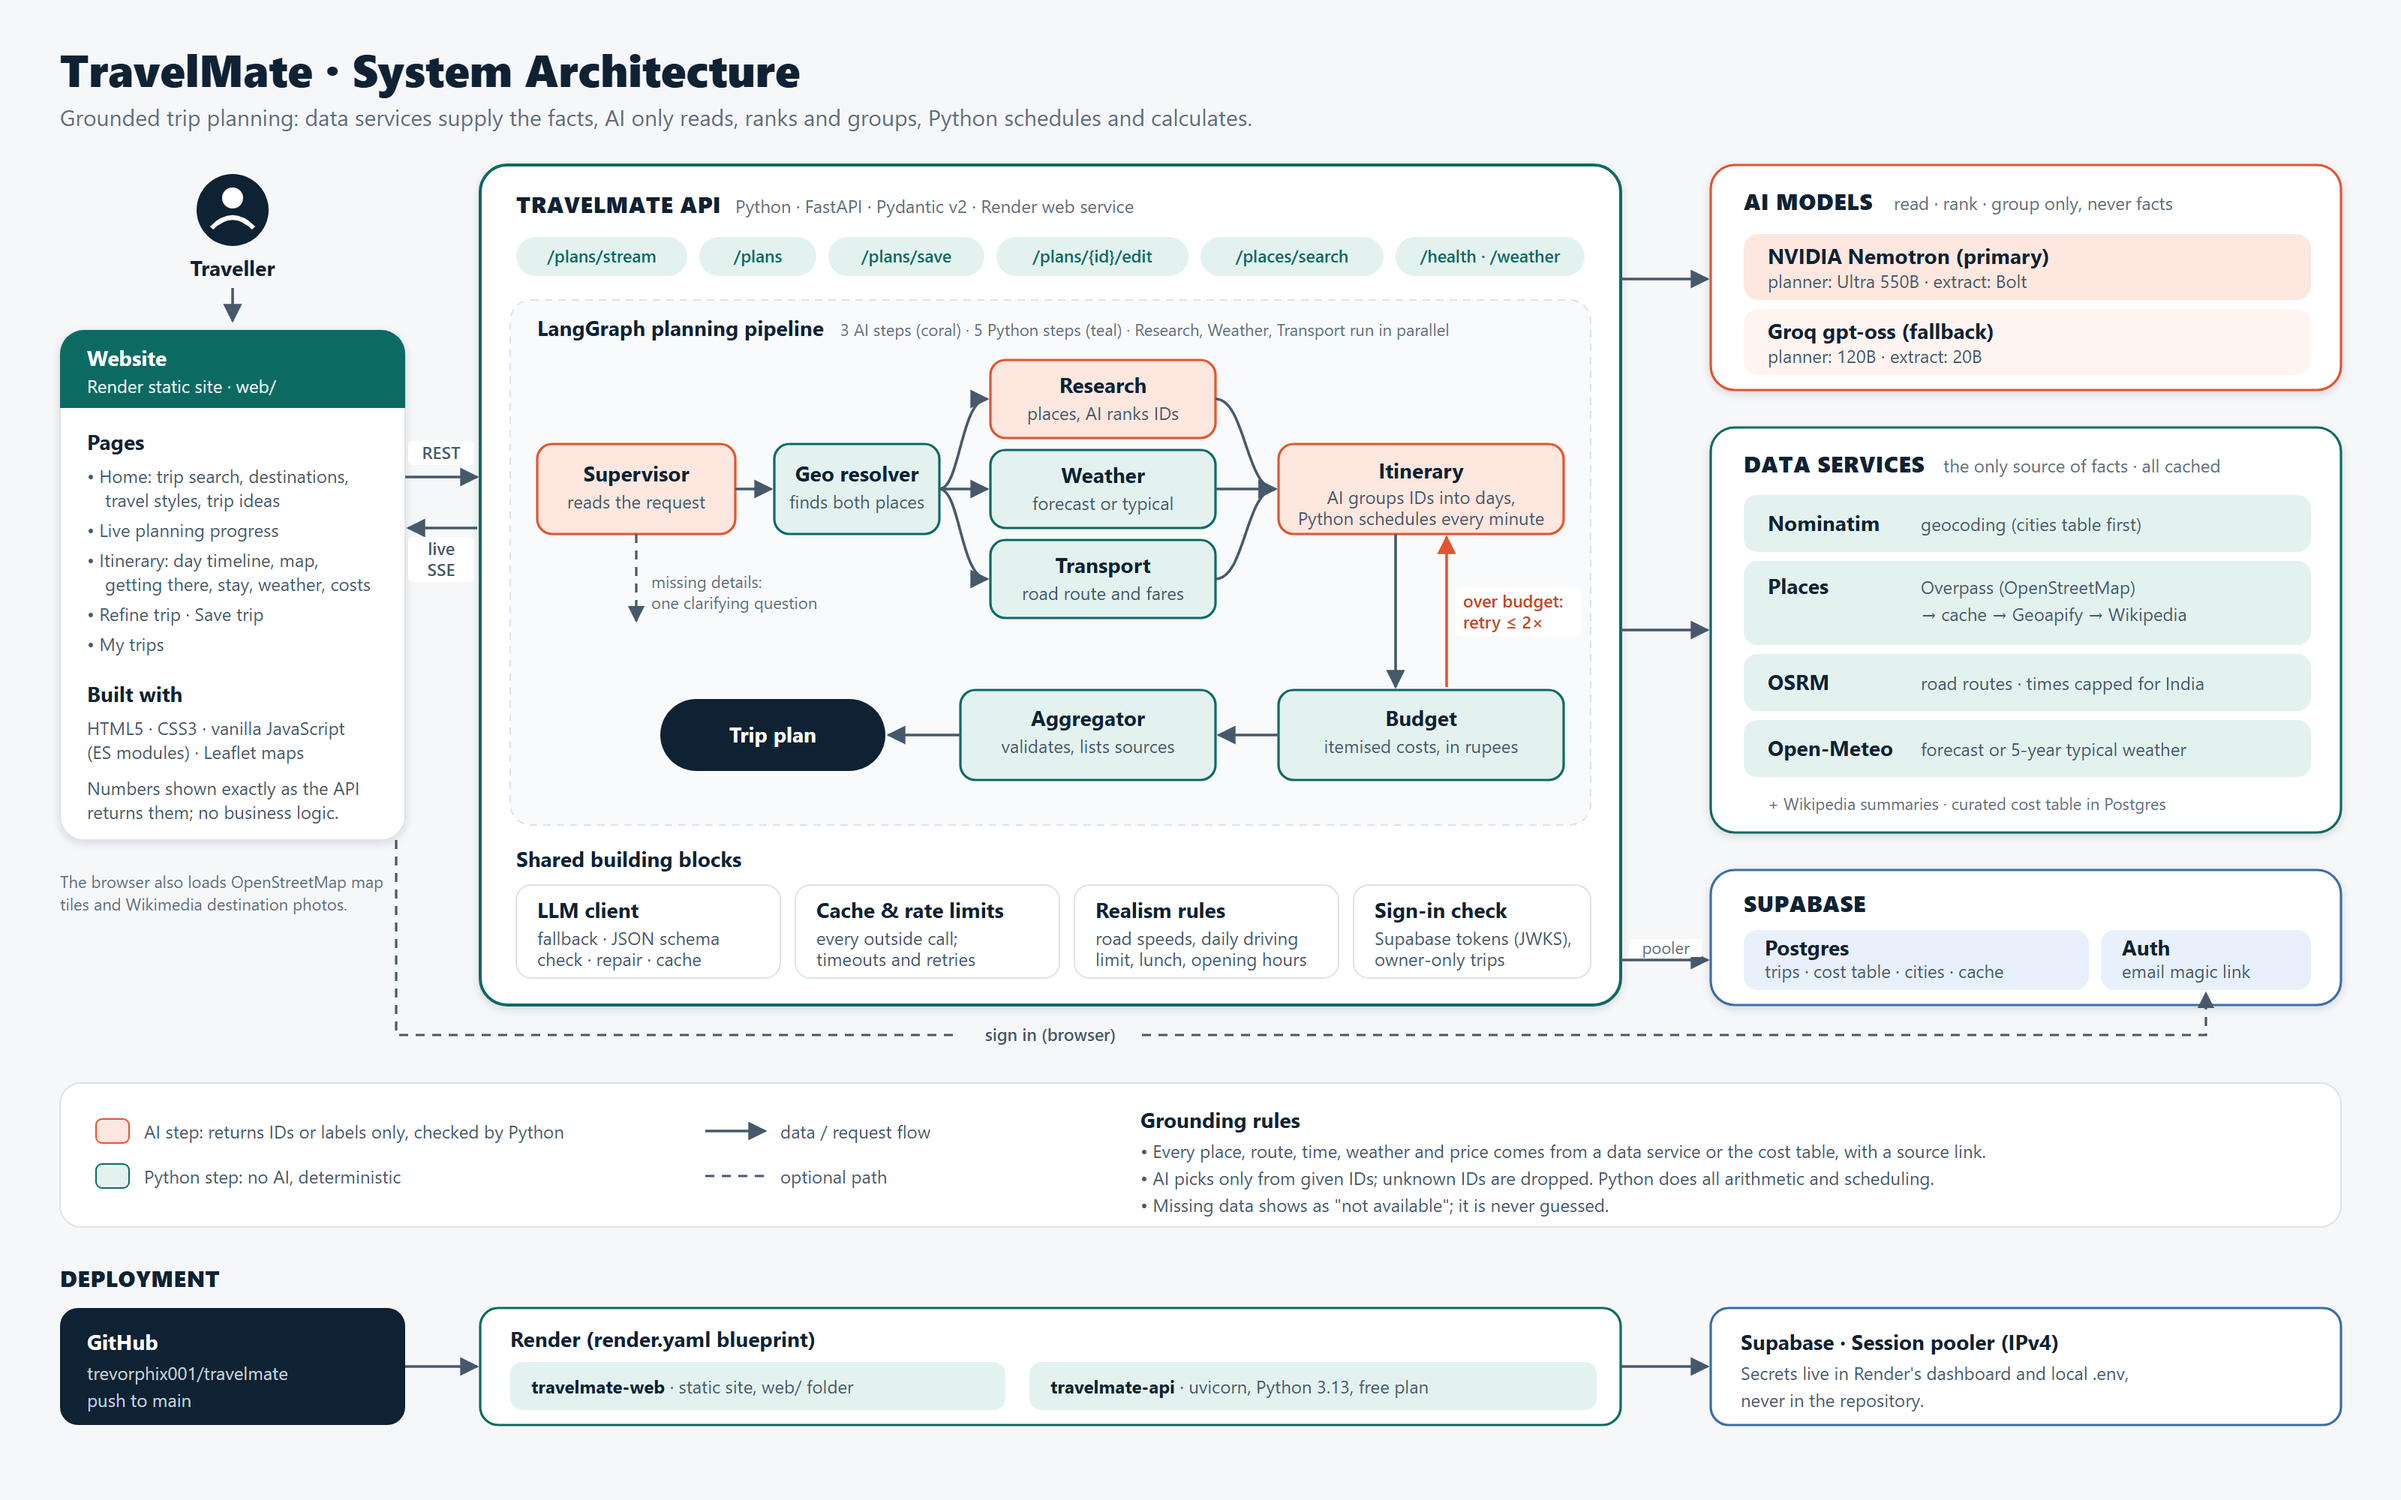
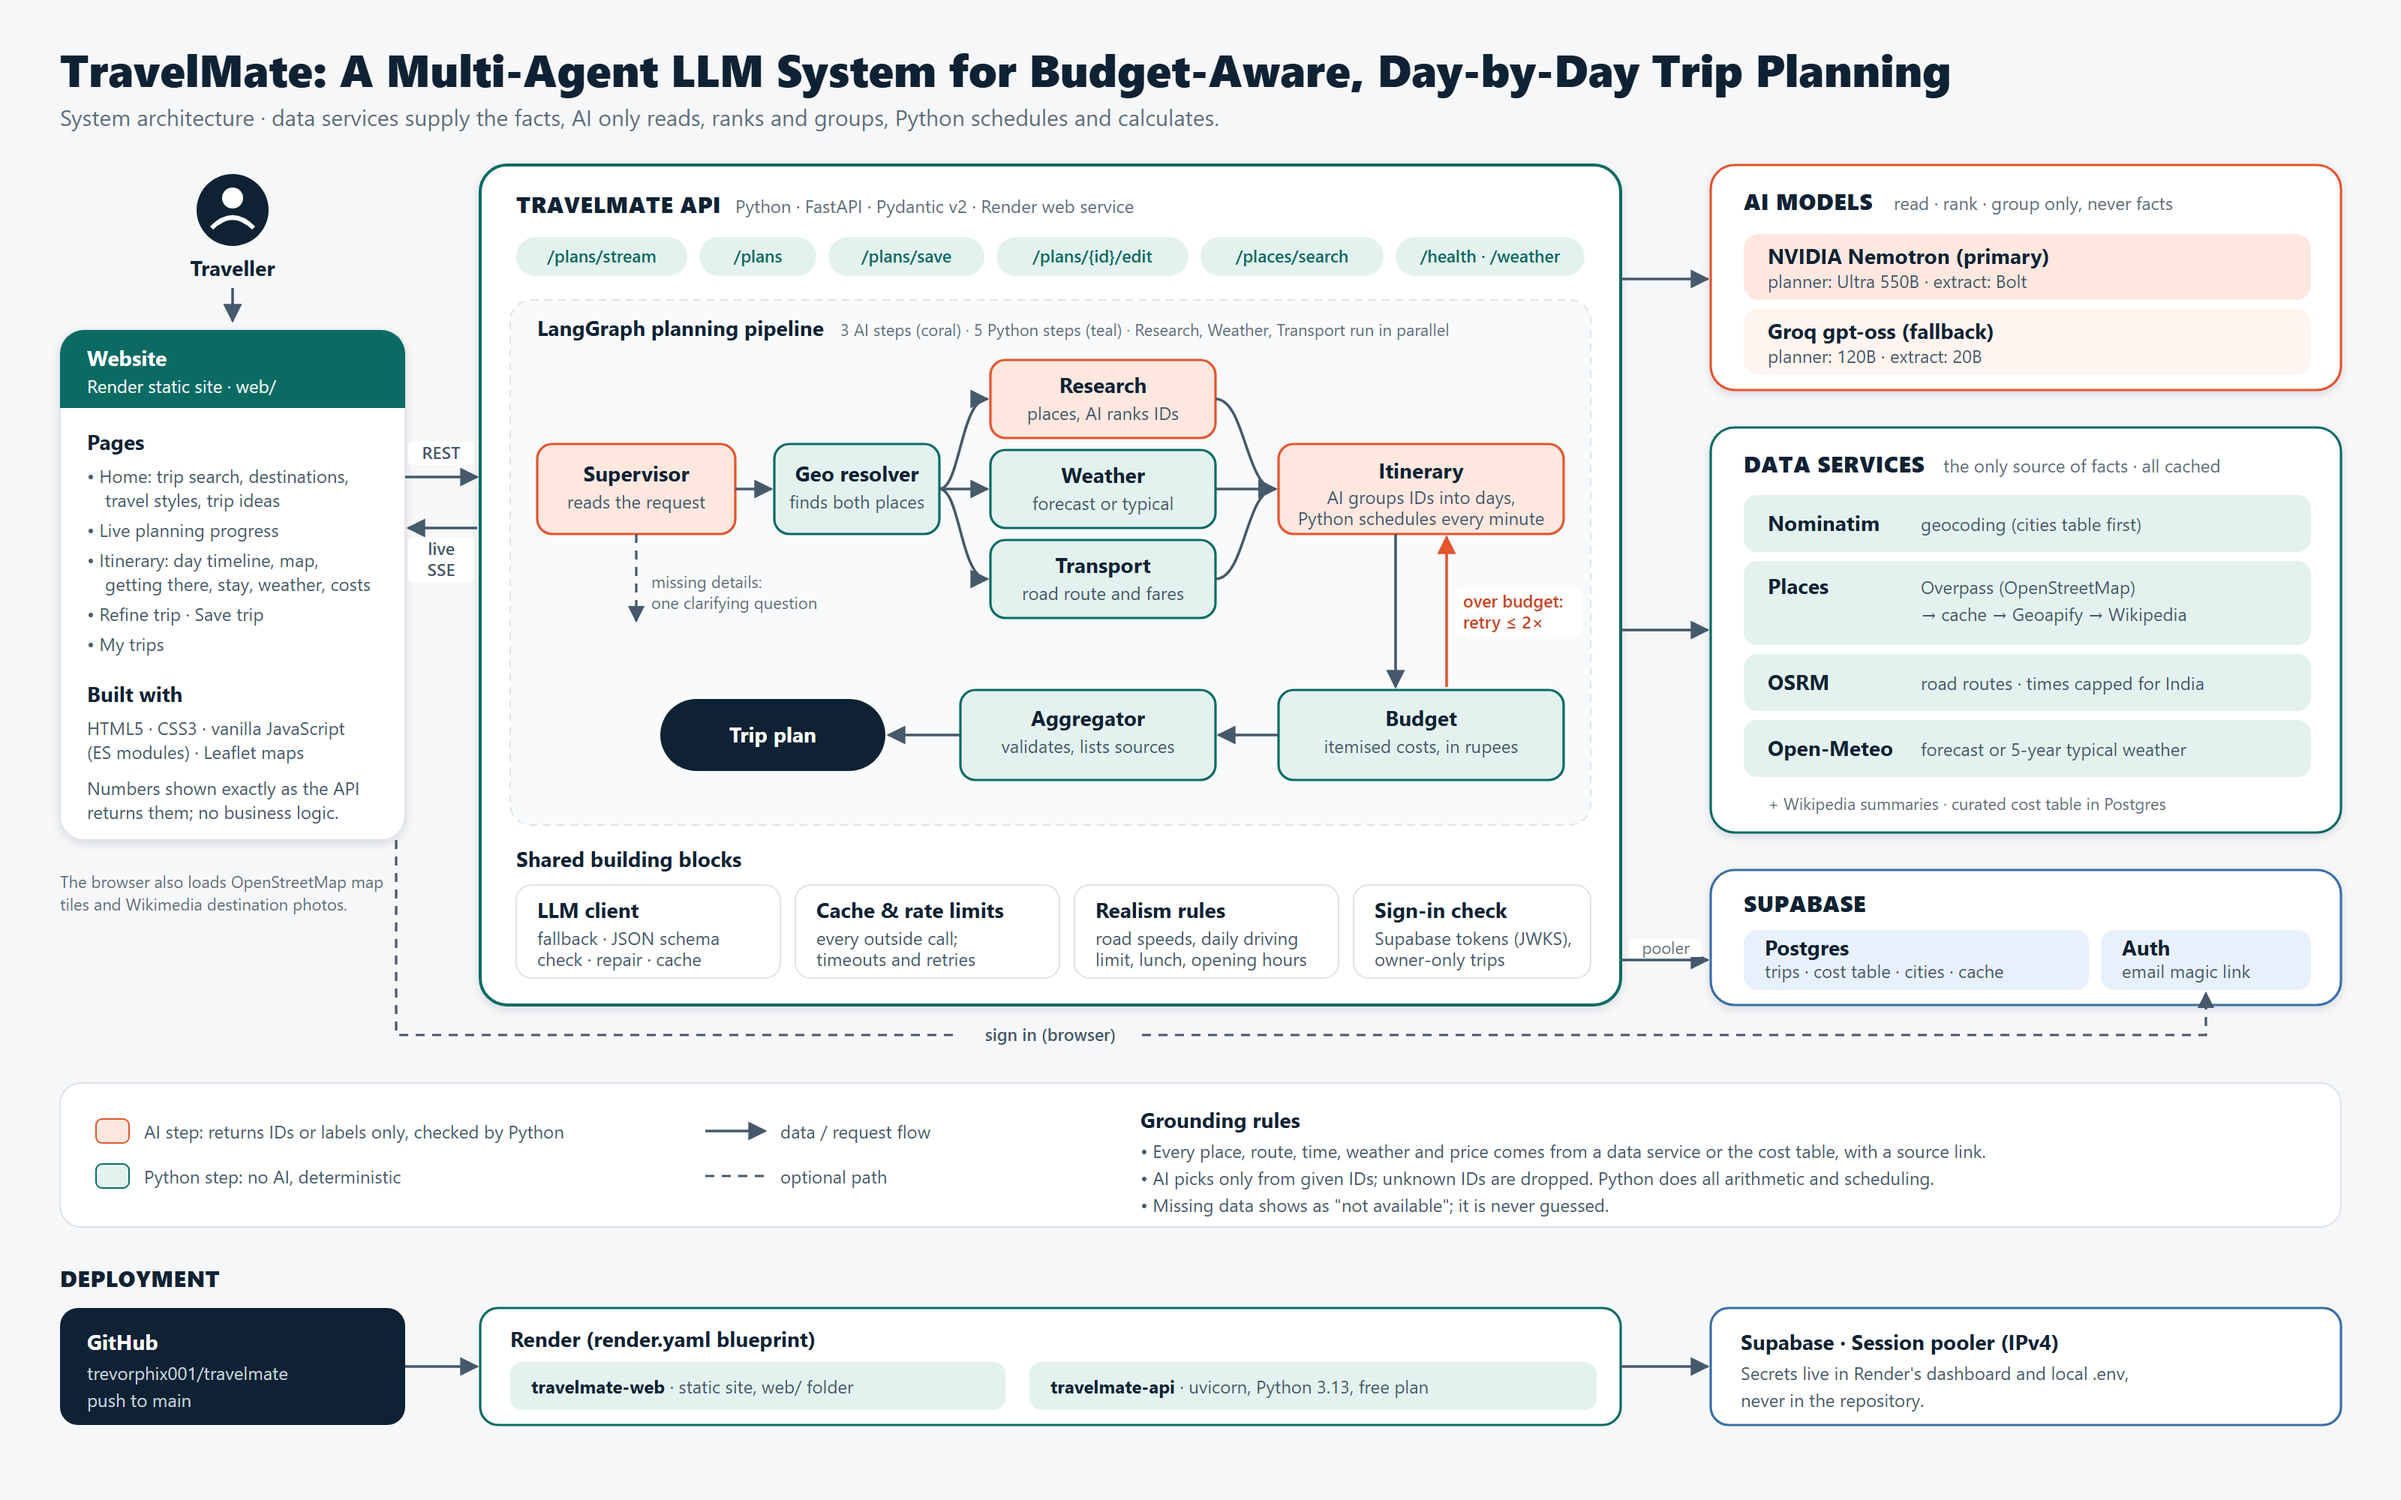
Use the project title in the README, architecture doc and diagram

Changed region(s): [[0.0312, 0.031, 0.8125, 0.093]]

diff --git a/README.md b/README.md
@@ -1,6 +1,6 @@
-# TravelMate AI
+# TravelMate: A Multi-Agent LLM System for Budget-Aware, Day-by-Day Trip Planning
 
-TravelMate AI turns a one-line request ("3 days from Guwahati to Shillong for 2, Rs 8000, waterfalls")
+TravelMate turns a one-line request ("3 days from Guwahati to Shillong for 2, Rs 8000, waterfalls")
 into a cited, budget-checked, map-ready day-wise itinerary, using only free APIs.
 
 **The design is grounded.** Tools produce the facts: OpenStreetMap, OSRM, Open-Meteo, Wikipedia and

diff --git a/docs/ARCHITECTURE.md b/docs/ARCHITECTURE.md
@@ -1,4 +1,6 @@
-# TravelMate architecture
+# TravelMate: A Multi-Agent LLM System for Budget-Aware, Day-by-Day Trip Planning
+
+## Architecture
 
 TravelMate turns a trip request ("3 days from Guwahati to Shillong for 2, Rs 8000, waterfalls") into a
 day-by-day itinerary with real places, realistic travel times and an itemised cost estimate.
